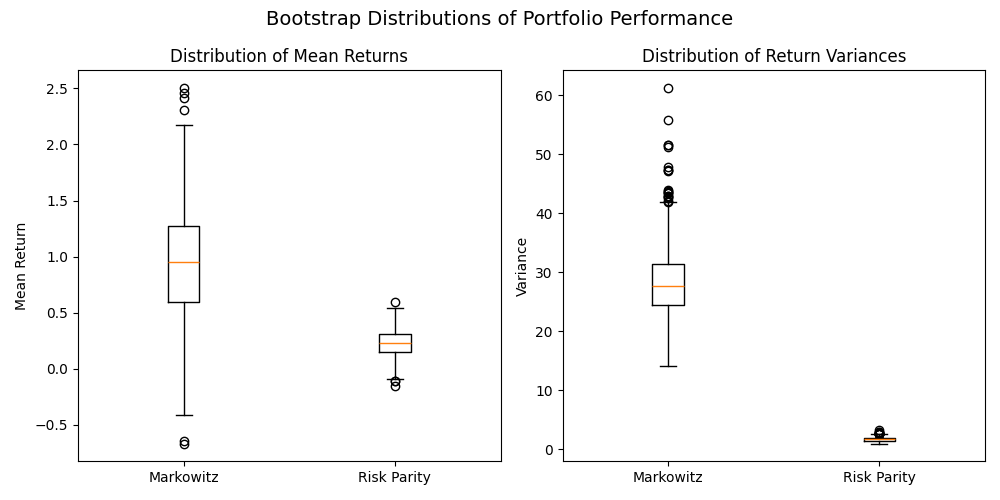
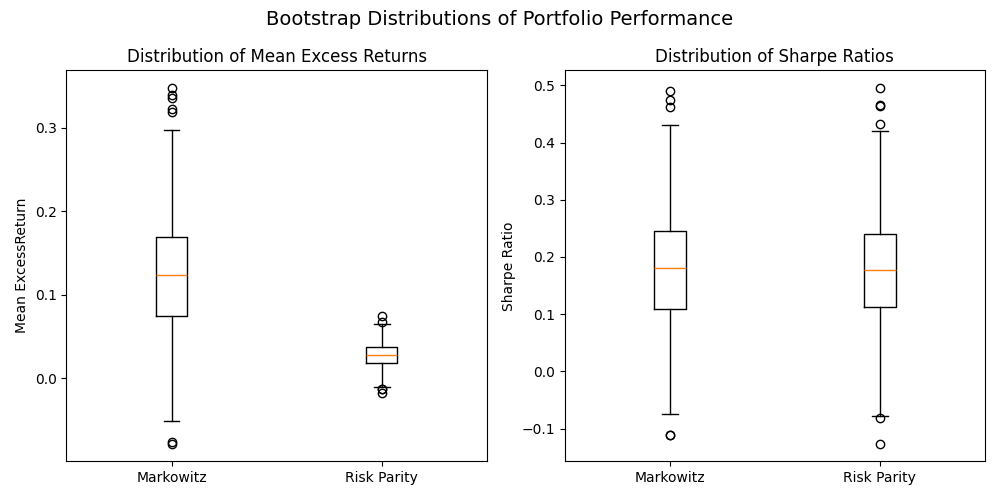
bootstrap and figure changes

diff --git a/bootstrap_strategies.py b/bootstrap_strategies.py
@@ -10,7 +10,14 @@ from markowitz import markowitz_historical, returns_to_value
 
 EU_data = pd.read_csv("csv_files/EXPORT EU EUR.csv")
 
-def block_bootstrap(df, n_bootstrap=1000, block_length=10, random_state=None):
+def annualizer(mean_return, type, periods_per_year = 12):
+    if type == "return":
+        return (1 + mean_return/100) ** periods_per_year - 1
+    if type == "volatility":
+        return mean_return * periods_per_year
+
+
+def block_bootstrap(df, n_bootstrap=1000, block_length=12, random_state=None):
     rng = np.random.default_rng(random_state)
     n = len(df)
     n_blocks = int(np.ceil(n / block_length))
@@ -36,10 +43,12 @@ mean_markowitz, variance_markowitz, sharpe_markowitz = [], [], []
 mean_risk_parity, variance_risk_parity, sharpe_risk_parity = [], [], []
 
 window = 36
-n_points = 10
+n_points = 3
 factors = True, True, True
 
 for i in range(n_bootstrap):
+    print(f"Processing bootstrap sample {i+1}/{n_bootstrap}", end='\r')
+
     portfolios = list(boot_samples[i].columns[5:36])
     marko_data = boot_samples[i][portfolios]    
     marko_returns = markowitz_historical(marko_data, window, n_points=n_points)
@@ -47,25 +56,25 @@ for i in range(n_bootstrap):
     rp_returns = risk_parity(boot_samples[i], window, *factors)['return']
 
     # --- Markowitz ---
-    mean_markowitz.append(np.mean(marko_returns))
-    variance_markowitz.append(np.var(marko_returns))
+    mean_markowitz.append(annualizer(np.mean(marko_returns), type="return"))
+    variance_markowitz.append(annualizer(np.var(marko_returns), type="volatility"))
     sharpe_markowitz.append(np.mean(marko_returns) / np.std(marko_returns))
 
     # --- Risk Parity ---
-    mean_risk_parity.append(np.mean(rp_returns))
-    variance_risk_parity.append(np.var(rp_returns))
+    mean_risk_parity.append(annualizer(np.mean(rp_returns), type="return"))
+    variance_risk_parity.append(annualizer(np.var(rp_returns), type="volatility"))
     sharpe_risk_parity.append(np.mean(rp_returns) / np.std(rp_returns))
 
 # --- Summary Table ---
 summary_df = pd.DataFrame({
     "Strategy": ["Markowitz", "Risk Parity"],
-    "Mean Return": [np.mean(mean_markowitz), np.mean(mean_risk_parity)],
+    "Mean Excess Return (annualized)": [np.mean(mean_markowitz), np.mean(mean_risk_parity)],
     "Variance": [np.mean(variance_markowitz), np.mean(variance_risk_parity)],
     "Sharpe Ratio": [np.mean(sharpe_markowitz), np.mean(sharpe_risk_parity)]
 })
 
 # --- Pretty Formatting ---
-summary_df["Mean Return"] = summary_df["Mean Return"].map("{:.6f}".format)
+summary_df["Mean Return"] = summary_df["Mean Excess Return (annualized)"].map("{:.6f}".format)
 summary_df["Variance"] = summary_df["Variance"].map("{:.6f}".format)
 summary_df["Sharpe Ratio"] = summary_df["Sharpe Ratio"].map("{:.3f}".format)
 
@@ -75,21 +84,50 @@ print(summary_df.to_string(index=False))
 
 
 
+# --- Bootstrap distribution charts for Mean and Sharpe ---
+
+bins = 10
+
+fig, axes = plt.subplots(1, 2, figsize=(10, 5))
+
+# Mean returns histogram
+axes[0].hist(mean_markowitz, bins=bins, alpha=0.7, label="Markowitz")
+axes[0].hist(mean_risk_parity, bins=bins, alpha=0.7, label="Risk Parity")
+axes[0].set_title("Bootstrap Distribution of Mean Excess Returns")
+axes[0].set_xlabel("Mean ExcessReturn")
+axes[0].set_ylabel("Frequency")
+axes[0].legend()
+
+# Sharpe ratio histogram
+
+axes[1].hist(sharpe_markowitz, bins=bins, alpha=0.7, label="Markowitz")
+axes[1].hist(sharpe_risk_parity, bins=bins, alpha=0.7, label="Risk Parity")
+axes[1].set_title("Bootstrap Distribution of Sharpe Ratios")
+axes[1].set_xlabel("Sharpe Ratio")
+axes[1].set_ylabel("Frequency")
+axes[1].legend()
+
+plt.suptitle("Bootstrap Distributions of Portfolio Performance", fontsize=14)
+plt.tight_layout()
+plt.savefig("bootstrap_histograms.png")
+plt.show()
 
 
 
-# --- Boxplots for Mean and Variance ---
+
+
+# --- Boxplots for Mean and Sharpe ---
 fig, axes = plt.subplots(1, 2, figsize=(10, 5))
 
 # Mean returns boxplot
 axes[0].boxplot([mean_markowitz, mean_risk_parity], labels=["Markowitz", "Risk Parity"])
-axes[0].set_title("Distribution of Mean Returns")
-axes[0].set_ylabel("Mean Return")
+axes[0].set_title("Distribution of Mean Excess Returns")
+axes[0].set_ylabel("Mean ExcessReturn")
 
 # Variance boxplot
-axes[1].boxplot([variance_markowitz, variance_risk_parity], labels=["Markowitz", "Risk Parity"])
-axes[1].set_title("Distribution of Return Variances")
-axes[1].set_ylabel("Variance")
+axes[1].boxplot([sharpe_markowitz, sharpe_risk_parity], labels=["Markowitz", "Risk Parity"])
+axes[1].set_title("Distribution of Sharpe Ratios")
+axes[1].set_ylabel("Sharpe Ratio")
 
 plt.suptitle("Bootstrap Distributions of Portfolio Performance", fontsize=14)
 plt.tight_layout()

diff --git a/strategy_comparison_plot.py b/strategy_comparison_plot.py
@@ -11,6 +11,11 @@ from markowitz import markowitz_historical, returns_to_value
 
 EU_data = pd.read_csv("csv_files/long_EXPORT EU EUR.csv")
 
+columns_to_add = list(EU_data.columns[2:36])
+
+# Add the risk free rate to the portfolios such that they are no longer excess returns
+
+EU_data[columns_to_add] = EU_data[columns_to_add].add(EU_data['RF'], axis=0)
 
 def result_plot(data, window, n_points):
     data['Date'] = pd.to_datetime(data['Date'].astype(str), format='%Y%m')
@@ -25,21 +30,29 @@ def result_plot(data, window, n_points):
     risk_parity_returns = np.array(risk_parity(EU_data,36,True,True,True)['return'])
     risk_parity_value = returns_to_value(risk_parity_returns)
 
-    # Use markowitz function to get markowitz return of strategy with mu_target = average return from risk parity
-    markowitz_returns_fixed = markowitz_historical(markowitz_data, window, strategy = "fixed", mu_target= np.mean(risk_parity_returns))
-    markowitz_value_fixed = returns_to_value(markowitz_returns_fixed)
+    # # Use markowitz function to get markowitz return of strategy with mu_target = average return from risk parity
+    # markowitz_returns_fixed = markowitz_historical(markowitz_data, window, strategy = "fixed", mu_target= np.mean(risk_parity_returns))
+    # markowitz_value_fixed = returns_to_value(markowitz_returns_fixed)
+
+    # Take market returns and make value development
+    market_returns = np.array(data['RM_RF'].iloc[window:])
+    market_value = returns_to_value(market_returns)
+
+    # Plot the value development of the strategies
 
     plt.figure(figsize=(10, 6))
     plt.plot(data['Date'][-len(markowitz_value):], markowitz_value, label='Markowitz Tangent Strategy')
     plt.plot(data['Date'][-len(risk_parity_value):], risk_parity_value, label='Risk Parity Strategy')
-    plt.plot(data['Date'][-len(markowitz_value_fixed):], markowitz_value_fixed, label='Markowitz Fixed Strategy')
+    # plt.plot(data['Date'][-len(markowitz_value_fixed):], markowitz_value_fixed, label='Markowitz Fixed Strategy')
+    plt.plot(data['Date'][-len(market_value):], market_value, label='Market', linestyle='--', color='black')
     plt.xlabel('Time (Months)')
     plt.ylabel('Portfolio Value')
     plt.title('Value Development of Markowitz Strategy')
     plt.grid(True, linestyle='--', alpha=0.6)
     plt.legend()
-    plt.show()
     plt.savefig("result_plot.png")
+    plt.show()
+    
 
 window = 36
 

diff --git a/markowitz.py b/markowitz.py
@@ -68,8 +68,8 @@ def markowitz_optimizer(mean_return, cov_matrix, target, direction = "min"):
         
         res = minimize(markowitz_max_obj, w0, args = (mean_return,), constraints = cons, bounds = bound, method = "SLSQP")
     
-    if not res.success:
-        print("Optimization failed:", res.message)
+    # if not res.success:
+    #     print("Optimization failed:", res.message)
     
     return res
 
@@ -93,8 +93,8 @@ def efficient_frontier(mean_return, cov_matrix, n_points=150):
             frontier_returns.append(port_return)
             frontier_variance.append(np.sqrt(port_var))
             frontier_weights.append(w)
-        else:
-            print(f"Optimization failed for target return {mu:.4f}: {res.message}")
+        # else:
+        #     print(f"Optimization failed for target return {mu:.4f}: {res.message}")
 
     return np.array(frontier_variance), np.array(frontier_returns), np.array(frontier_weights)
 
@@ -109,7 +109,6 @@ def frontier_plotter(risks, returns):
     plt.grid(True, linestyle='--', alpha=0.6)
     plt.legend()
     plt.show()
-
 
 # We want to invest in the portfolio with the highest sharpe ratio, that is the tangent portfolio
 # but we can't use theoretical results because we have a no-shorting constraint
@@ -139,7 +138,7 @@ def markowitz_strategy(data, mu_target = 0.5, n_points = 50, strategy = "tangent
         if result.success:
             return(result.x)
         else:
-            print("Warning: Fixed strategy optimization failed, using equal weights")
+            #print("Warning: Fixed strategy optimization failed, using equal weights")
             return np.ones(len(mean_return)) / len(mean_return)
 
 
